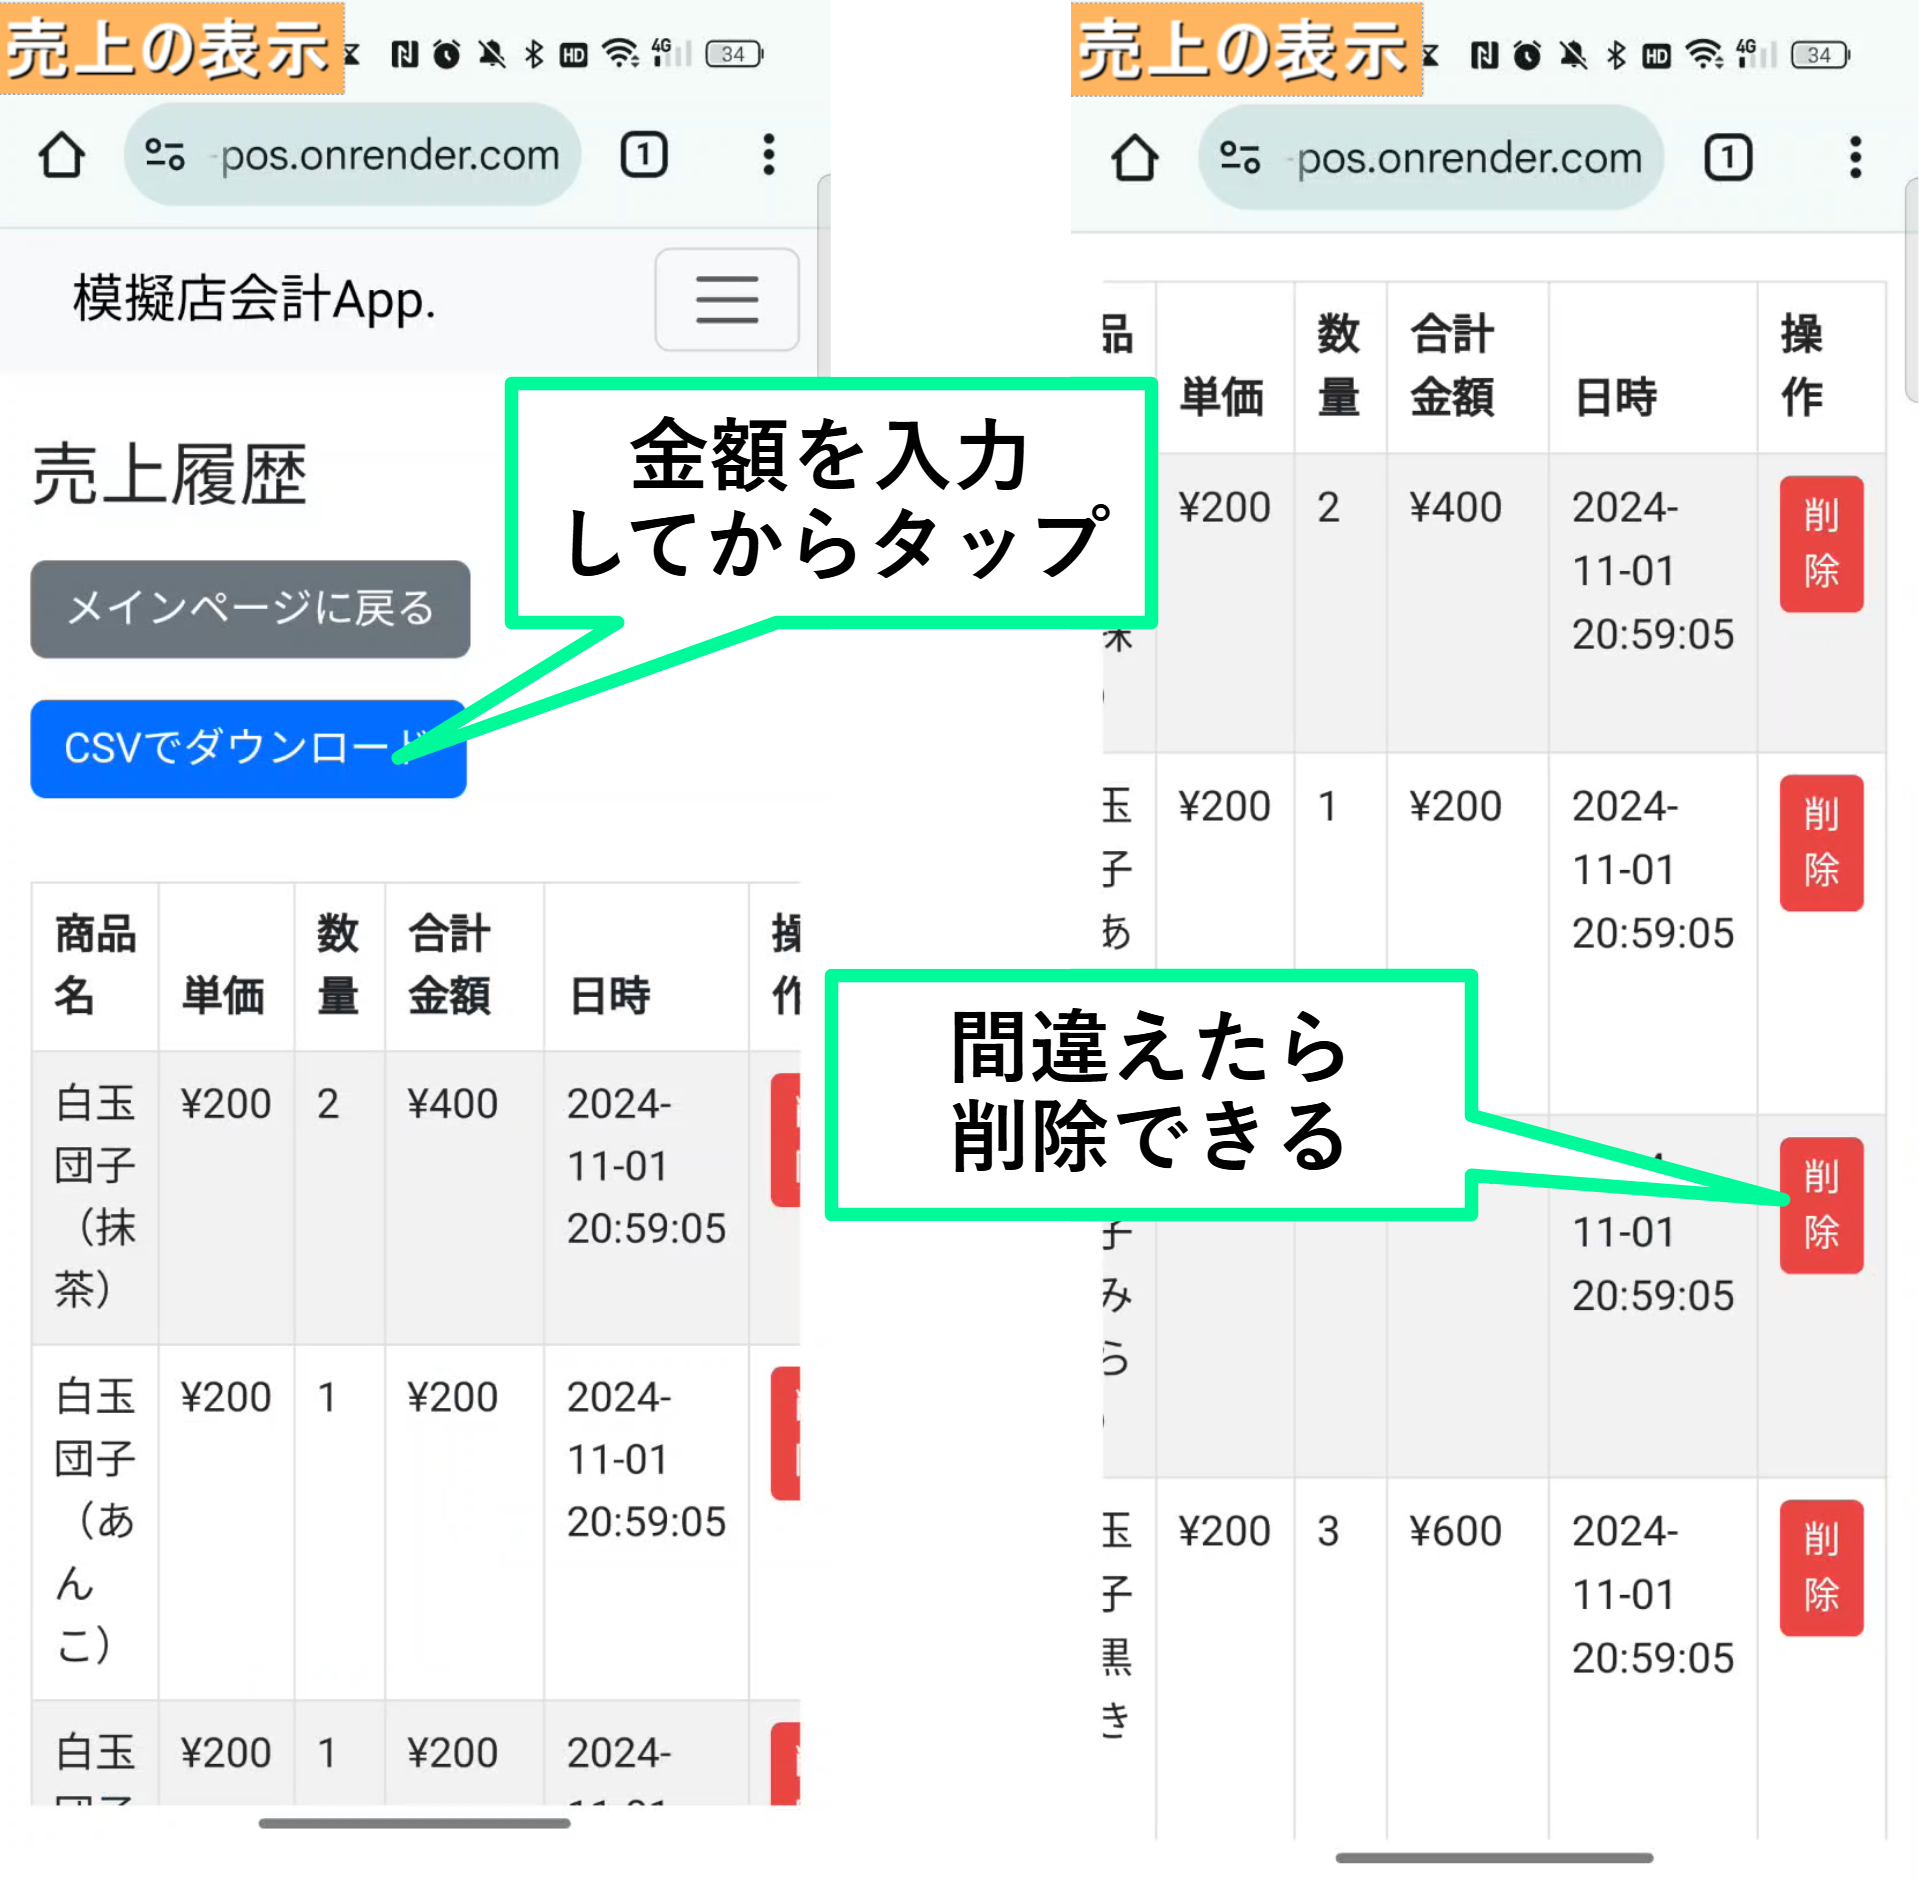
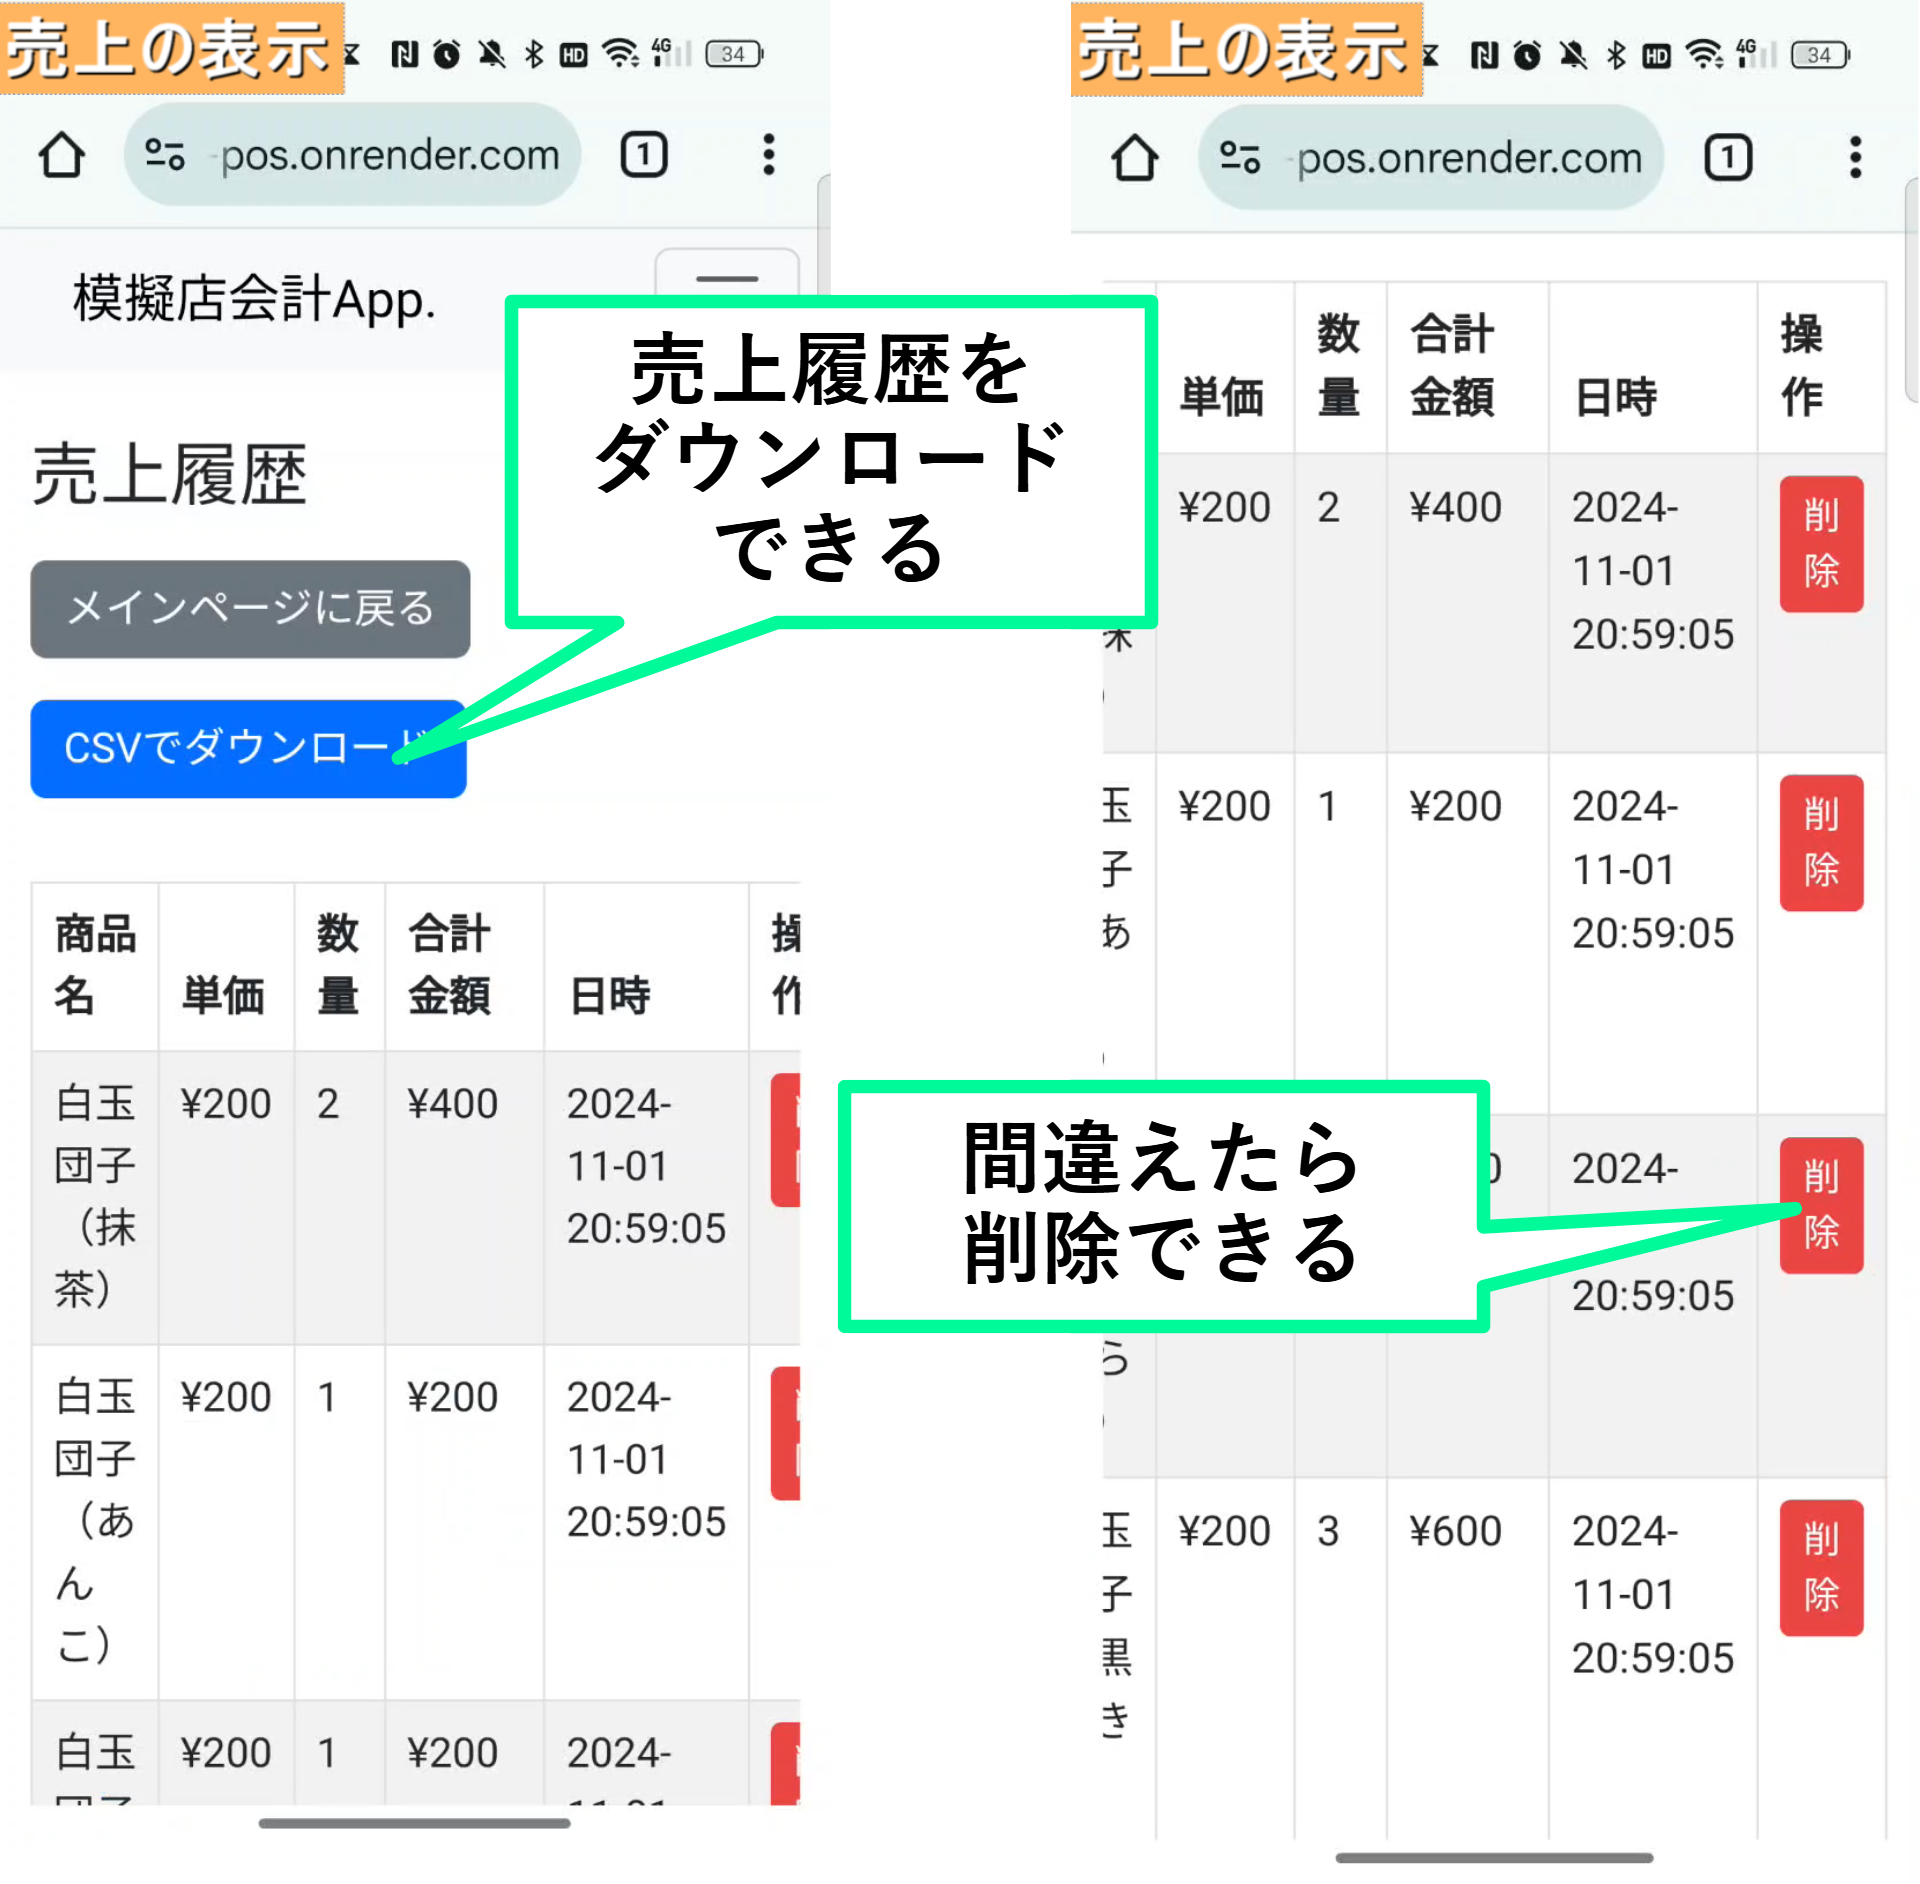
会計アプリ自作に関する記事を更新しました

Changed region(s): [[0.4062, 0.4926, 0.9375, 0.7081], [0.25, 0.1539, 0.625, 0.3079]]

diff --git a/2024/11/26/index.html b/2024/11/26/index.html
@@ -51,7 +51,7 @@
     <main class="card shadow round-corner">
 <h1 id="1-開発の背景">1. 開発の背景</h1>
 <p>　一昨年の大学祭の模擬店ではフライドポテトを販売していましたが、会計がかなり大変でした。</p>
-<p>　具体的には、紙に正の字を書いて数量を計算するという方法を採用していました（去年の模擬店も同様です）。</p>
+<p>　そのときは、紙に正の字を書いて数量を計算するという方法を採用していました（去年の模擬店も同様です）。</p>
 <p>　今年は私自身が模擬店の担当になったわけではなかったのですが、少しでも負担を減らして楽にできたら良いなと思い、開発することに決めました。</p>
 <h1 id="2-実装までの流れ">2. 実装までの流れ</h1>
 <p>　初めはDjangoでやろうと思ったのですが、URLの設定や画面遷移などに失敗してしまいました。修正しようと思ったのですが、中々うまく行きませんでした。留学生の友達（インドネシア人の方です）がFlaskの方が簡単という話をしていたのを思い出し、Flaskでの実装に切り替えました。</p>
@@ -69,7 +69,7 @@
   ☝　売上計算画面
   </div>
 <h2 id="32-売上履歴画面">3.2. 「売上履歴」画面</h2>
-<p>「売上計算」画面で計算した売上の履歴が保存されています。</p>
+<p>　「売上計算」画面で計算した売上の履歴が保存されています。「CSVでダウンロード」を押すと、売上履歴をダウンロードして後で分析することができます。</p>
   <div align="center">
   <figure><img src="%e5%a3%b2%e4%b8%8a%e5%b1%a5%e6%ad%b4%e7%94%bb%e9%9d%a2.png"
          alt="売上履歴画面"/>
@@ -77,10 +77,10 @@
 
   </div>
   <div style="text-align: center;">
-  ☝　売上履歴
+  ☝　売上履歴画面
   </div>
 <h2 id="33-商品一覧画面">3.3. 「商品一覧」画面</h2>
-<p>「売上計算」画面で表示される商品名と金額を登録・編集します。</p>
+<p>　「売上計算」画面で表示される商品名と金額を登録・編集します。</p>
   <div align="center">
   <figure><img src="%e5%95%86%e5%93%81%e4%b8%80%e8%a6%a7%e7%94%bb%e9%9d%a2.png"
          alt="商品一覧画面"/>
@@ -91,7 +91,7 @@
   ☝　売上計算画面
   </div>
 <h2 id="34-売上ダッシュボード画面">3.4. 「売上ダッシュボード」画面</h2>
-<p>合計数量や時間ごとの売り上げなどを、数値とグラフで表示します。</p>
+<p>　合計数量や時間ごとの売り上げなどを、数値とグラフで表示します。</p>
   <div align="center">
   <figure><img src="%e5%a3%b2%e4%b8%8a%e3%83%80%e3%83%83%e3%82%b7%e3%83%a5%e3%83%9c%e3%83%bc%e3%83%89%e7%94%bb%e9%9d%a2.png"
          alt="売上ダッシュボード画面"/>
@@ -109,7 +109,7 @@
 </div>
 
 <h1 id="5-ソースコード">5. ソースコード</h1>
-<p>　今回のアプリはFlaskで作ったので、画面遷移やデータベースの処理をするPythonコードと、各画面のhtmlファイルを掲載を一部掲載します。全ソースコードは<a href="https://github.com/TomokiIkegami/my_flask_pos">GitHub</a>に載せました。</p>
+<p>　今回のアプリはFlaskで作ったので、ここでは画面遷移やデータベースの処理をするPythonコードと、各画面のhtmlファイルを掲載を一部掲載します。全ソースコードは<a href="https://github.com/TomokiIkegami/my_flask_pos">GitHub</a>に載せました。</p>
   <br>
   <div style="text-align: center;">
 ⇩⇩⇩ ソースコード(app.py) ⇩⇩⇩
@@ -729,34 +729,6 @@ def <span style="color:#a6e22e">robots</span><span style="color:#f92672">():</sp
         &lt;<span style="color:#f92672">button</span> <span style="color:#a6e22e">type</span><span style="color:#f92672">=</span><span style="color:#e6db74">&#34;submit&#34;</span> <span style="color:#a6e22e">class</span><span style="color:#f92672">=</span><span style="color:#e6db74">&#34;btn btn-primary&#34;</span>&gt;更新&lt;/<span style="color:#f92672">button</span>&gt;
         &lt;<span style="color:#f92672">a</span> <span style="color:#a6e22e">href</span><span style="color:#f92672">=</span><span style="color:#e6db74">&#34;{{ url_for(&#39;index&#39;) }}&#34;</span> <span style="color:#a6e22e">class</span><span style="color:#f92672">=</span><span style="color:#e6db74">&#34;btn btn-secondary&#34;</span>&gt;戻る&lt;/<span style="color:#f92672">a</span>&gt;
     &lt;/<span style="color:#f92672">form</span>&gt;
-{% endblock %}
-  </code></pre></div>
-  <br>
-  <div style="text-align: center;">
-⇩⇩⇩ 商品追加画面(add_item.html) ⇩⇩⇩
-  </div>
-<div class="highlight"><pre tabindex="0" style="color:#f8f8f2;background-color:#272822;-moz-tab-size:4;-o-tab-size:4;tab-size:4"><code class="language-html" data-lang="html">{% extends &#34;base.html&#34; %}
-
-{% block title %}模擬店会計App.{% endblock %}
-
-{% block content %}
-    &lt;<span style="color:#f92672">h1</span> <span style="color:#a6e22e">class</span><span style="color:#f92672">=</span><span style="color:#e6db74">&#34;mt-4&#34;</span>&gt;商品を追加&lt;/<span style="color:#f92672">h1</span>&gt;
-
-    &lt;<span style="color:#f92672">form</span> <span style="color:#a6e22e">method</span><span style="color:#f92672">=</span><span style="color:#e6db74">&#34;POST&#34;</span>&gt;
-        &lt;<span style="color:#f92672">div</span> <span style="color:#a6e22e">class</span><span style="color:#f92672">=</span><span style="color:#e6db74">&#34;form-group mt-3&#34;</span>&gt;
-            &lt;<span style="color:#f92672">label</span> <span style="color:#a6e22e">for</span><span style="color:#f92672">=</span><span style="color:#e6db74">&#34;name&#34;</span>&gt;商品名:&lt;/<span style="color:#f92672">label</span>&gt;
-            &lt;<span style="color:#f92672">input</span> <span style="color:#a6e22e">type</span><span style="color:#f92672">=</span><span style="color:#e6db74">&#34;text&#34;</span> <span style="color:#a6e22e">class</span><span style="color:#f92672">=</span><span style="color:#e6db74">&#34;form-control&#34;</span> <span style="color:#a6e22e">id</span><span style="color:#f92672">=</span><span style="color:#e6db74">&#34;name&#34;</span> <span style="color:#a6e22e">name</span><span style="color:#f92672">=</span><span style="color:#e6db74">&#34;name&#34;</span> <span style="color:#a6e22e">required</span>&gt;
-        &lt;/<span style="color:#f92672">div</span>&gt;
-
-        &lt;<span style="color:#f92672">div</span> <span style="color:#a6e22e">class</span><span style="color:#f92672">=</span><span style="color:#e6db74">&#34;form-group mt-3&#34;</span>&gt;
-            &lt;<span style="color:#f92672">label</span> <span style="color:#a6e22e">for</span><span style="color:#f92672">=</span><span style="color:#e6db74">&#34;price&#34;</span>&gt;価格:&lt;/<span style="color:#f92672">label</span>&gt;
-            &lt;<span style="color:#f92672">input</span> <span style="color:#a6e22e">type</span><span style="color:#f92672">=</span><span style="color:#e6db74">&#34;number&#34;</span> <span style="color:#a6e22e">class</span><span style="color:#f92672">=</span><span style="color:#e6db74">&#34;form-control&#34;</span> <span style="color:#a6e22e">id</span><span style="color:#f92672">=</span><span style="color:#e6db74">&#34;price&#34;</span> <span style="color:#a6e22e">name</span><span style="color:#f92672">=</span><span style="color:#e6db74">&#34;price&#34;</span> <span style="color:#a6e22e">required</span> <span style="color:#a6e22e">min</span><span style="color:#f92672">=</span><span style="color:#e6db74">&#34;0&#34;</span>&gt;
-        &lt;/<span style="color:#f92672">div</span>&gt;
-
-        &lt;<span style="color:#f92672">button</span> <span style="color:#a6e22e">type</span><span style="color:#f92672">=</span><span style="color:#e6db74">&#34;submit&#34;</span> <span style="color:#a6e22e">class</span><span style="color:#f92672">=</span><span style="color:#e6db74">&#34;btn btn-primary mt-3&#34;</span>&gt;追加&lt;/<span style="color:#f92672">button</span>&gt;
-    &lt;/<span style="color:#f92672">form</span>&gt;
-
-    &lt;<span style="color:#f92672">a</span> <span style="color:#a6e22e">href</span><span style="color:#f92672">=</span><span style="color:#e6db74">&#34;{{ url_for(&#39;items&#39;) }}&#34;</span> <span style="color:#a6e22e">class</span><span style="color:#f92672">=</span><span style="color:#e6db74">&#34;btn btn-secondary mt-3&#34;</span>&gt;商品一覧に戻る&lt;/<span style="color:#f92672">a</span>&gt;
 {% endblock %}
   </code></pre></div>
   <br>

diff --git a/pinnedposts/index.html b/pinnedposts/index.html
@@ -48,7 +48,7 @@
 <h3><a href="https://tomokiikegami.github.io/Happy_RC.github.io/2024/11/26/">簡易な会計アプリを作ってみた</a></h3>
 <time>2024-11-26</time>
 <p>1. 開発の背景 　一昨年の大学祭の模擬店ではフライドポテトを販売していましたが、会計がかなり大変でした。
-　具体的には、紙に正の字を書いて数量を計算するという方法を採用していました（去年の模擬店も同様です）。
+　そのときは、紙に正の字を書いて数量を計算するという方法を採用していました（去年の模擬店も同様です）。
 　今年は私自身が模擬店の担当になったわけではなかったのですが、少しでも負担を減らして楽にできたら良いなと思い、開発することに決めました。
 2. 実装までの流れ 　初めはDjangoでやろう …</p>
 
